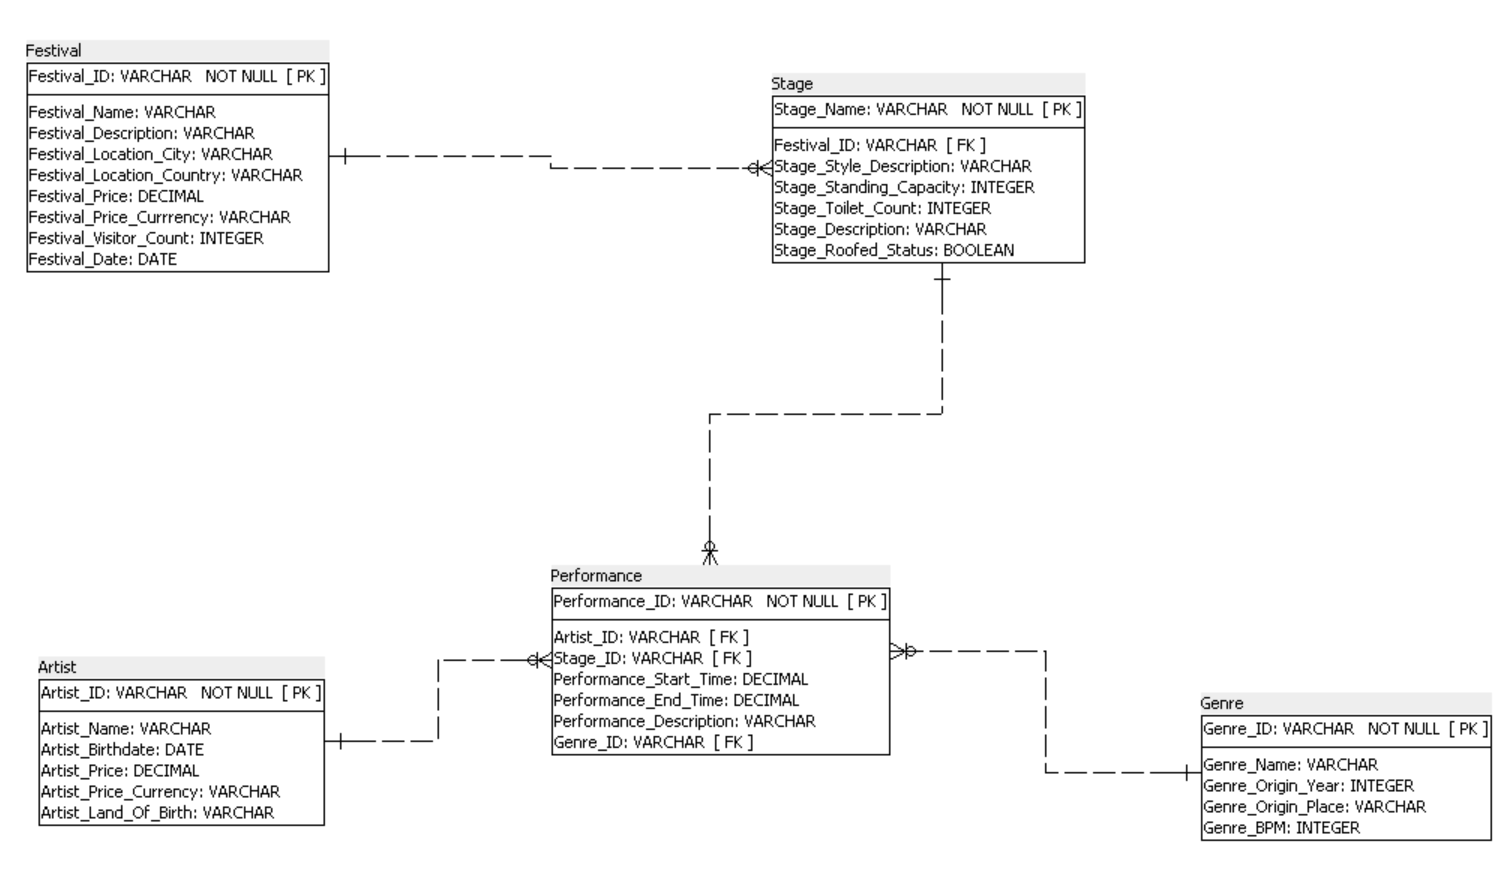
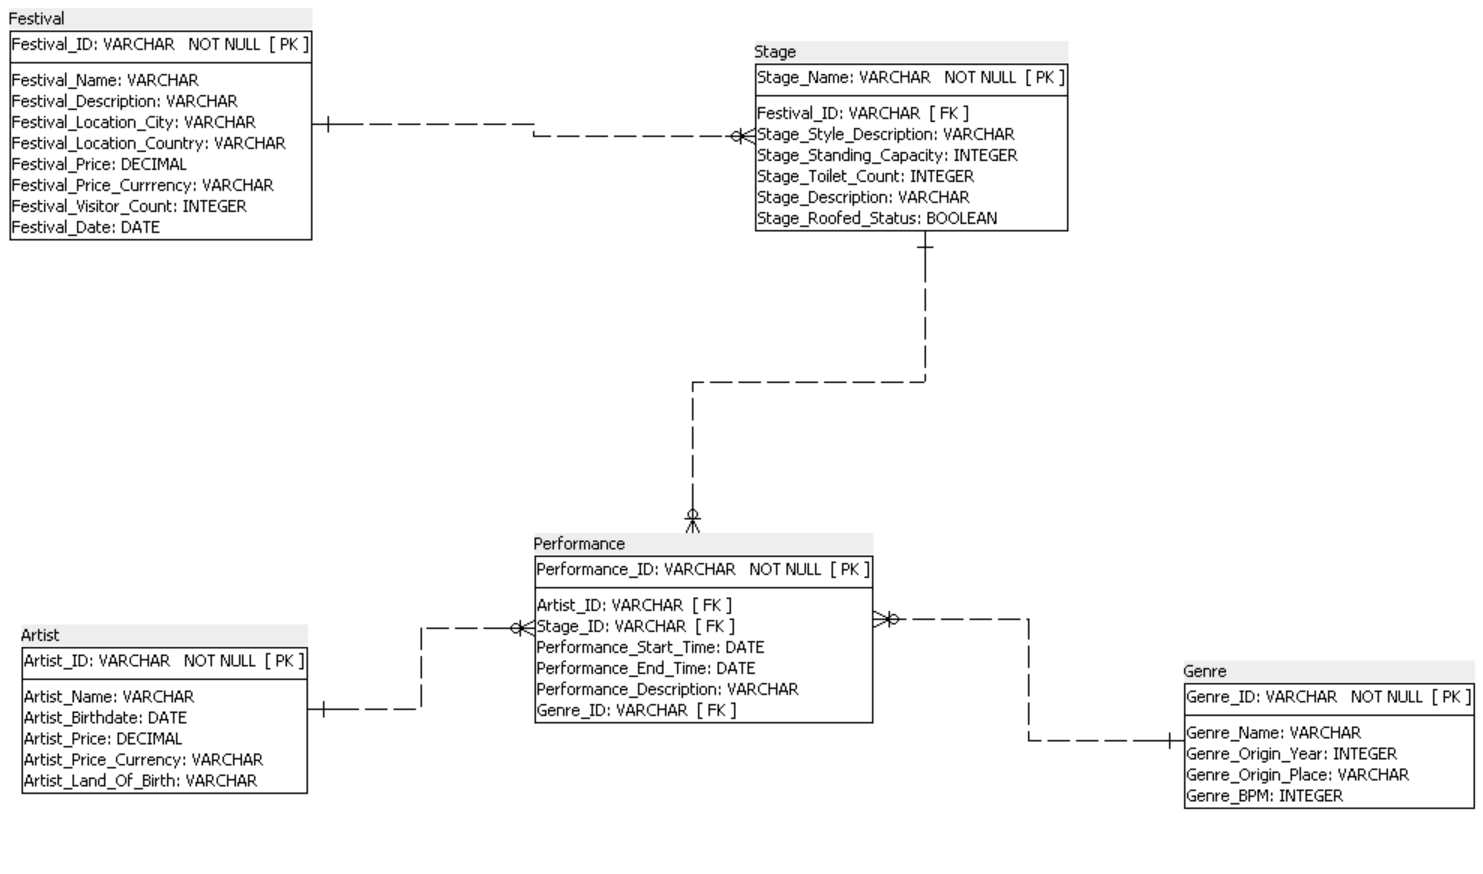
Correcting the dependencies in NF1, uniforming data types in ERDs

diff --git a/D2_NORMALISATIE/SAMEN_integratie/Milestone2.md b/D2_NORMALISATIE/SAMEN_integratie/Milestone2.md
@@ -45,7 +45,9 @@ Step 3: Domain - constraints
 - Stage_Toilet_Count, Stage_Standing_Capacity, Artist_Price, Genre_BPM all >= 0
 - Artist_Birthday and Genre_Origin_Year < current_date
 - Artist_Land_Of_Birth must be at least four letters
-- All currencies must be three letters 
+- All currencies must be exact three letters
+- The combination of Festival_ID and Stage_Name must be unique
+- Performance_End_Time > Performance_Start_Time
 
 
 Time
